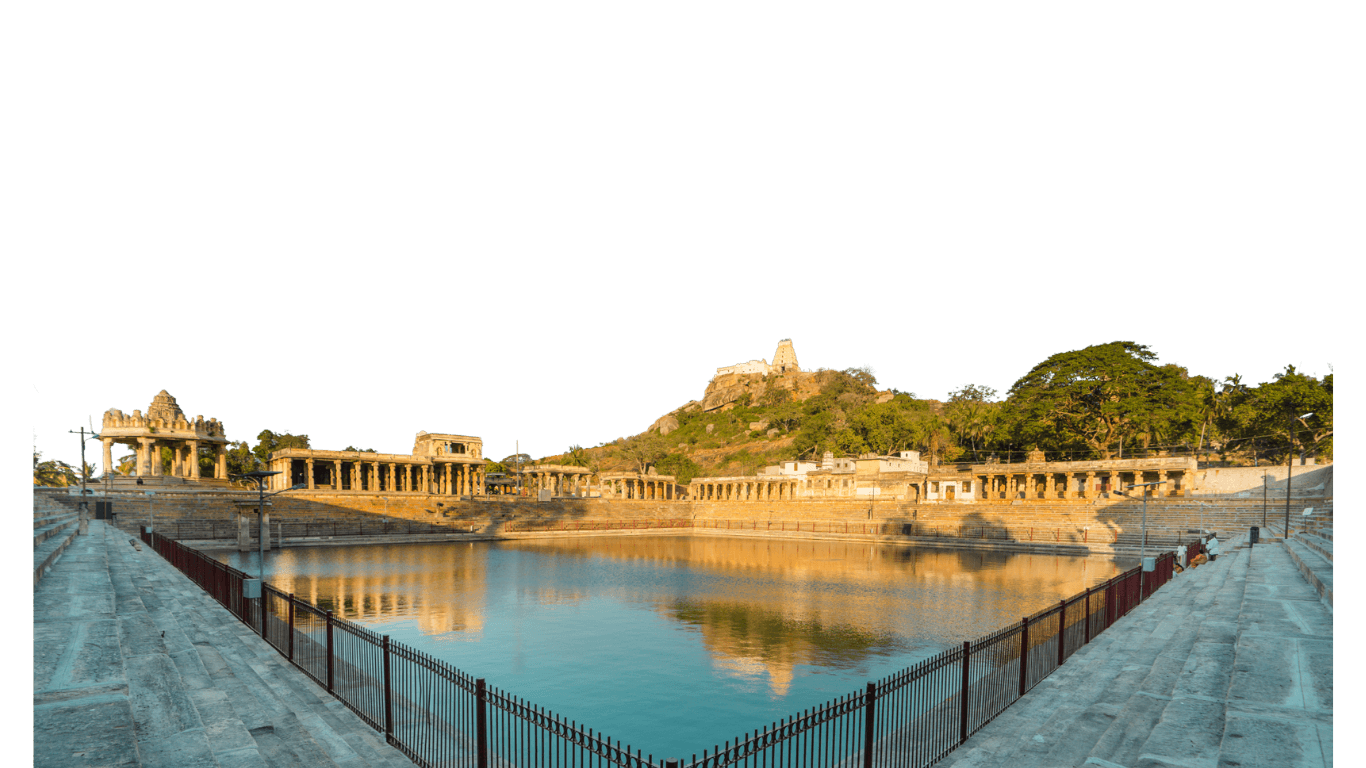
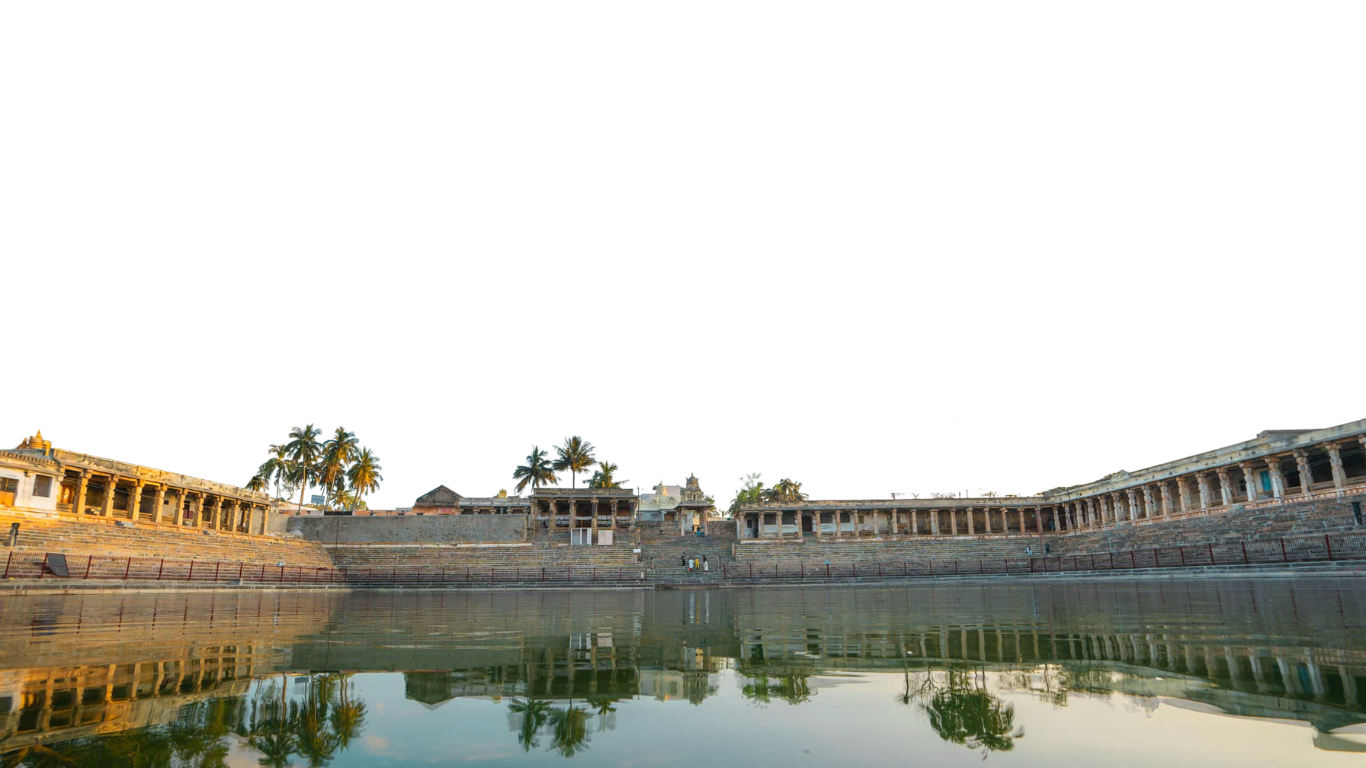
metro added and other updates

diff --git a/src/data/projectsData.js b/src/data/projectsData.js
@@ -455,6 +455,173 @@ export const projectsData = {
       "/temple/Melukote%20Kalayani/MELKOTE%20KALYANI3.webp",
       "/temple/Melukote%20Kalayani/MELKOTE%20KALYANI30.webp"
     ]
+  },
+
+  // ================= METRO =================
+  "m1": {
+    id: "m1",
+    title: "BTM Layout Station",
+    location: "BENGALURU",
+    number: "15",
+    heroBg: "/metro/BTM/BTM.webp",
+    images: {
+      mobile1: "/metro/BTM/BTM (2).webp",
+      mobile2: "/metro/BTM/SWA01466.webp",
+      desktopLeft: "/metro/BTM/BTM (2).webp",
+      desktopRight: "/metro/BTM/SWA01466.webp"
+    },
+    introText1: "Located at BTM Layout, this project demonstrates our capacity to deliver complex urban transportation infrastructure.",
+    introText2: "Our scope encompassed comprehensive civil works, resulting in a state-of-the-art metro station facilitating seamless connectivity.",
+    droneSection: {
+      img1: "/metro/BTM/SWA01477.webp",
+      img2: "/metro/BTM/SWA01483.webp",
+      cardTitle: "Metro Infrastructure",
+      cardDesc: "Vital node in Bengaluru's mass transit network",
+      stats: [
+        { title: "Urban Transit", desc: "Key metro station serving the BTM Layout area" },
+        { title: "Complete Civil Works", desc: "Full structural and finishing works delivered" }
+      ]
+    },
+    galleryImages: [
+      "/metro/BTM/BTM.webp",
+      "/metro/BTM/BTM (2).webp",
+      "/metro/BTM/SWA01466.webp",
+      "/metro/BTM/SWA01477.webp",
+      "/metro/BTM/SWA01485.webp",
+      "/metro/BTM/SWA01488.webp"
+    ]
+  },
+  "m2": {
+    id: "m2",
+    title: "Jayadeva Station",
+    location: "BENGALURU",
+    number: "16",
+    heroBg: "/metro/Jayadeva/JDS.webp",
+    images: {
+      mobile1: "/metro/Jayadeva/SWA01331.webp",
+      mobile2: "/metro/Jayadeva/SWA01339.webp",
+      desktopLeft: "/metro/Jayadeva/SWA01331.webp",
+      desktopRight: "/metro/Jayadeva/SWA01339.webp"
+    },
+    introText1: "An interchange station situated at Jayadeva, this project forms a crucial part of Bengaluru's expanding metro network.",
+    introText2: "Executed with precision, we managed the demanding construction requirements of a multi-level transit hub in a high-density area.",
+    droneSection: {
+      img1: "/metro/Jayadeva/SWA01341.webp",
+      img2: "/metro/Jayadeva/SWA01366.webp",
+      cardTitle: "Interchange Hub",
+      cardDesc: "Major interchange station connecting multiple metro lines",
+      stats: [
+        { title: "Multi-level Structure", desc: "Complex engineering for intersecting transit routes" },
+        { title: "Quality Execution", desc: "Built with exacting safety and durability standards" }
+      ]
+    },
+    galleryImages: [
+      "/metro/Jayadeva/JDS.webp",
+      "/metro/Jayadeva/SWA01331.webp",
+      "/metro/Jayadeva/SWA01367.webp",
+      "/metro/Jayadeva/SWA01377.webp",
+      "/metro/Jayadeva/SWA01441.webp",
+      "/metro/Jayadeva/SWA01339.webp"
+    ]
+  },
+  "m3": {
+    id: "m3",
+    title: "Ragigudda Station",
+    location: "BENGALURU",
+    number: "17",
+    heroBg: "/metro/Ragigudda/RGS.webp",
+    images: {
+      mobile1: "/metro/Ragigudda/RGS (4).webp",
+      mobile2: "/metro/Ragigudda/RGS (7).webp",
+      desktopLeft: "/metro/Ragigudda/RGS (4).webp",
+      desktopRight: "/metro/Ragigudda/RGS (7).webp"
+    },
+    introText1: "Located near the historic Ragigudda temple, this station provides essential connectivity while respecting the local environment.",
+    introText2: "Our team executed the project with minimal disruption to the surrounding community, delivering a highly functional transit facility.",
+    droneSection: {
+      img1: "/metro/Ragigudda/RGS (8).webp",
+      img2: "/metro/Ragigudda/SWA01227.webp",
+      cardTitle: "Community Transit",
+      cardDesc: "A modern metro station serving a vibrant residential and cultural hub",
+      stats: [
+        { title: "Efficient Design", desc: "Optimized passenger flow and accessibility" },
+        { title: "Status: Completed", desc: "Delivered to support the city's mobility needs" }
+      ]
+    },
+    galleryImages: [
+      "/metro/Ragigudda/RGS.webp",
+      "/metro/Ragigudda/RGS (4).webp",
+      "/metro/Ragigudda/SWA01254.webp",
+      "/metro/Ragigudda/SWA01265.webp",
+      "/metro/Ragigudda/SWA01269.webp",
+      "/metro/Ragigudda/SWA01288.webp"
+    ]
+  },
+  "m4": {
+    id: "m4",
+    title: "Rashtreeya Vidyalaya Road Station",
+    location: "BENGALURU",
+    number: "18",
+    heroBg: "/metro/Rashtreeya%20Vidyalaya%20Road/SWA01182.webp",
+    images: {
+      mobile1: "/metro/Rashtreeya%20Vidyalaya%20Road/SWA01183.webp",
+      mobile2: "/metro/Rashtreeya%20Vidyalaya%20Road/SWA01186.webp",
+      desktopLeft: "/metro/Rashtreeya%20Vidyalaya%20Road/SWA01183.webp",
+      desktopRight: "/metro/Rashtreeya%20Vidyalaya%20Road/SWA01186.webp"
+    },
+    introText1: "Serving the RV Road area, this project highlights our capability in executing critical infrastructure within established urban corridors.",
+    introText2: "We delivered robust civil engineering solutions, ensuring the station integrates smoothly with existing public spaces and roadways.",
+    droneSection: {
+      img1: "/metro/Rashtreeya%20Vidyalaya%20Road/SWA01212.webp",
+      img2: "/metro/Rashtreeya%20Vidyalaya%20Road/SWA01217.webp",
+      cardTitle: "Urban Integration",
+      cardDesc: "Seamlessly connecting commuters in a key educational and residential district",
+      stats: [
+        { title: "Strategic Location", desc: "Essential node for daily city commuters" },
+        { title: "Complete Civil Works", desc: "End-to-end execution of station infrastructure" }
+      ]
+    },
+    galleryImages: [
+      "/metro/Rashtreeya%20Vidyalaya%20Road/SWA01182.webp",
+      "/metro/Rashtreeya%20Vidyalaya%20Road/SWA01183.webp",
+      "/metro/Rashtreeya%20Vidyalaya%20Road/SWA01186.webp",
+      "/metro/Rashtreeya%20Vidyalaya%20Road/SWA01212.webp",
+      "/metro/Rashtreeya%20Vidyalaya%20Road/SWA01217.webp",
+      "/metro/Rashtreeya%20Vidyalaya%20Road/RVR%20STATION%20(4).webp"
+    ]
+  },
+  "m5": {
+    id: "m5",
+    title: "Silk Board Station",
+    location: "BENGALURU",
+    number: "19",
+    heroBg: "/metro/Silk%20board/SWA01503.webp",
+    images: {
+      mobile1: "/metro/Silk%20board/SWA01510.webp",
+      mobile2: "/metro/Silk%20board/SWA01513.webp",
+      desktopLeft: "/metro/Silk%20board/SWA01510.webp",
+      desktopRight: "/metro/Silk%20board/SWA01513.webp"
+    },
+    introText1: "Located at one of Bengaluru's busiest intersections, the Silk Board metro station is a landmark infrastructure achievement.",
+    introText2: "Our team overcame significant logistical challenges to construct a facility that will greatly alleviate traffic congestion in the area.",
+    droneSection: {
+      img1: "/metro/Silk%20board/SWA01527.webp",
+      img2: "/metro/Silk%20board/SWA01538.webp",
+      cardTitle: "Major Transit Hub",
+      cardDesc: "Pivotal station designed to handle high passenger volumes",
+      stats: [
+        { title: "High Capacity", desc: "Engineered for maximum throughput and safety" },
+        { title: "Complex Execution", desc: "Built amidst one of the city's densest traffic zones" }
+      ]
+    },
+    galleryImages: [
+      "/metro/Silk%20board/SWA01503.webp",
+      "/metro/Silk%20board/SWA01510.webp",
+      "/metro/Silk%20board/SWA01542.webp",
+      "/metro/Silk%20board/SWA01551.webp",
+      "/metro/Silk%20board/SWA01513.webp",
+      "/metro/Silk%20board/SWA01538.webp"
+    ]
   }
 };
 

diff --git a/src/pages/AboutUs.jsx b/src/pages/AboutUs.jsx
@@ -94,7 +94,7 @@ export default function AboutUs() {
                 M Ramesh Reddy
               </h2>
               <p className="text-gray-300 text-base md:text-lg leading-relaxed font-medium">
-                M Ramesh Reddy’s journey is defined by hard work, determination, and an unwavering commitment to excellence. Born in Nangali, Karnataka, into a humble family, he began his career as a civil contractor and steadily built M R Constructions into a trusted leader in the industry. A pivotal milestone in his career came in 2012 when he became a vendor for Infosys, leading to an inspiring meeting with the renowned Sudha Murty. Today, his visionary leadership continues to drive M R Constructions toward new heights of engineering and operational success.
+                M Ramesh Reddy’s journey is defined by hard work, determination, and an unwavering commitment to excellence. Born in Nangali, Karnataka, into a humble family, he began his career as a civil contractor and steadily built M R Constructions into a trusted leader in the industry. A pivotal milestone in his career came in 2012 when he became a vendor for Infosys, leading to an inspiring meeting with the renowned Smt. Sudha Murty. Today, his visionary leadership continues to drive M R Constructions toward new heights of engineering and operational success.
               </p>
             </div>
             
@@ -201,10 +201,10 @@ export default function AboutUs() {
       </div>
 
       {/* Why MRC Section - Layered Parallax Layout */}
-      <div ref={sectionRef} className="relative w-[95vw] md:w-[90vw] max-w-[1800px] mx-auto rounded-[1.5rem] md:rounded-[3rem] overflow-hidden min-h-[1050px] sm:min-h-[900px] lg:min-h-[1000px] mb-24 shadow-2xl flex flex-col justify-start bg-[#e6e4e0] z-30 pb-32 lg:pb-0">
+      <div ref={sectionRef} className="relative w-[95vw] md:w-[90vw] max-w-[1800px] mx-auto rounded-[1.5rem] md:rounded-[3rem] overflow-hidden min-h-[920px] sm:min-h-[800px] lg:min-h-[800px] mb-24 shadow-2xl flex flex-col justify-start bg-[#e6e4e0] z-30 pb-32 lg:pb-0">
 
           {/* Layer 1: Background Image */}
-          <img src="/temple_bg.webp" alt="Archaeological Site Background" className="absolute inset-0 w-full h-full object-cover object-[50%_100%] z-0" />
+          <img src="/temple_bg.png" alt="Archaeological Site Background" className="absolute inset-0 w-full h-full object-cover object-[50%_100%] z-0" />
 
           {/* Layer 2: Content (Title and Cards) */}
           <div className="relative z-10 w-full flex flex-col lg:flex-row items-start justify-between px-4 sm:px-8 md:px-16 pt-8 md:pt-12 lg:pt-16 gap-6 md:gap-8">
@@ -248,7 +248,7 @@ export default function AboutUs() {
           </div>
 
           {/* Layer 3: Foreground Image */}
-          <img src="/temple_fg 2.png" alt="Archaeological Site Foreground" className="absolute inset-0 w-full h-full object-cover object-[50%_100%] pointer-events-none z-20" />
+          <img src="/temple_fg.png" alt="Archaeological Site Foreground" className="absolute inset-0 w-full h-full object-cover object-[50%_100%] pointer-events-none z-20" />
         </div>
 
         {/* Core Values & Ethics Section (Full Width) */}

diff --git a/src/pages/Portfolio.jsx b/src/pages/Portfolio.jsx
@@ -328,7 +328,6 @@ const portfolioCategories = [
     projects: [
       { id: "c1", title: "Infosys New Campus", subtitle: "Hubli", img: "/commercial/infosys/INFOSYS HUBLI29.webp" },
       { id: "c2", title: "Lake development and construction", subtitle: "Hebbal Mysore", img: "/commercial/lake/infosys STP drone 1_10.webp" },
-      { id: "c3", title: "Sira Solar Plant", subtitle: "Sira", img: "/sira_solar.webp" },
       { id: "c4", title: "Paying Guest Buildings", subtitle: "Electronic city", img: "/commercial/pg/PG13.webp" },
     ]
   },
@@ -336,7 +335,7 @@ const portfolioCategories = [
     category: "Education Institution",
     projects: [
       { id: "e1", title: "CBSE English Medium High School", subtitle: "Shivanahalli", img: "/Education%20Institution/CBSE%20ENGLISH%20MEDIUM%20HIGH%20SCHOOL-%20Shivanahalli/MRC shivanahalli DRONE _21.webp" },
-      { id: "e2", title: "Hubli Education Institution", subtitle: "Hubli", img: "/Education%20Institution/Hubli%20School/HUBLI SCHOOL1.webp" },
+      { id: "e2", title: "Smt. Vimalakulkarni Memorial School", subtitle: "Hubli", img: "/Education%20Institution/Hubli%20School/HUBLI SCHOOL1.webp" },
       { id: "e3", title: "Indian Institute of Information Technology", subtitle: "Dharwad", img: "/Education%20Institution/Indian%20Institute%20of%20Information%20Technology%20(IIIT),%20Dharwad/IIIT7.webp" },
     ]
   },
@@ -357,8 +356,20 @@ const portfolioCategories = [
     ]
   },
   {
-    category: "Metro and Roads",
-    projects: []
+    category: "Roads & Infrastructure",
+    projects: [
+      { id: "c3", title: "Sira Solar Plant", subtitle: "Sira", img: "/sira_solar.webp" }
+    ]
+  },
+  {
+    category: "Metro",
+    projects: [
+      { id: "m1", title: "BTM Layout Station", subtitle: "Bengaluru", img: "/metro/BTM/BTM.webp" },
+      { id: "m2", title: "Jayadeva Station", subtitle: "Bengaluru", img: "/metro/Jayadeva/JDS.webp" },
+      { id: "m3", title: "Ragigudda Station", subtitle: "Bengaluru", img: "/metro/Ragigudda/RGS.webp" },
+      { id: "m4", title: "Rashtreeya Vidyalaya Road Station", subtitle: "Bengaluru", img: "/metro/Rashtreeya%20Vidyalaya%20Road/SWA01182.webp" },
+      { id: "m5", title: "Silk Board Station", subtitle: "Bengaluru", img: "/metro/Silk%20board/SWA01503.webp" }
+    ]
   }
 ];
 
@@ -495,7 +506,7 @@ export default function Portfolio() {
             {/* Left side: Highlight text */}
             <div className="lg:col-span-5">
               <h2 className="text-3xl md:text-4xl font-light text-[#4b4b4b] leading-[1.2] tracking-tight">
-                Building trust over <br className="hidden lg:block" /> <span className="font-semibold text-[#2c52a1]">2 Decades</span> of excellence.
+                Building trust over <br className="hidden lg:block" /> <span className="font-semibold text-[#2c52a1]">2+ Decades</span> of excellence.
               </h2>
             </div>
 

diff --git a/src/components/ServicesSection.jsx b/src/components/ServicesSection.jsx
@@ -11,10 +11,11 @@ export default function ServicesSection() {
 
   const serviceItems = [
     { id: 1, title: 'Commercial', projects: 'Delivering modern office spaces, retail environments, and state-of-the-art commercial complexes.', image: '/sira_solar.webp', link: '/portfolio#commercial' },
-    { id: 2, title: 'Education Institute', projects: 'Building inspiring learning environments, from educational institutions to advanced research campuses.', image: '/hubli_school_vert.webp', link: '/portfolio#education-institution' },
+    { id: 2, title: 'Educational Institution', projects: 'Building inspiring learning environments, from educational institutions to advanced research campuses.', image: '/hubli_school_vert.webp', link: '/portfolio#education-institution' },
     { id: 3, title: 'Hospitals', projects: 'Constructing specialized healthcare facilities, clinics, and multi-specialty hospitals with precision.', image: '/hospital.webp', link: '/portfolio#hospitals' },
     { id: 4, title: 'Archaeological Developments', projects: 'Preserving historical heritage and developing archaeological sites with traditional architectural integrity.', image: '/melukote_temple.webp', link: '/portfolio#archaeological-developments' },
-    { id: 5, title: 'Metro and Roads', projects: 'Developing critical transportation infrastructure including metro lines and road networks for seamless connectivity.', image: '/building.webp', link: '/portfolio#metro-and-roads' },
+    { id: 5, title: 'Roads & Infrastructure', projects: 'Developing critical transportation infrastructure including road networks and highways for seamless connectivity.', image: '/building.webp', link: '/portfolio#roads-&-infrastructure' },
+    { id: 6, title: 'Metro', projects: 'Building major urban transit systems, interchange stations, and metro networks to power city mobility.', image: '/metro/Jayadeva/JDS.webp', link: '/portfolio#metro' },
   ];
 
   const handleMouseDown = (e) => {

diff --git a/src/components/WhyChooseUsSection.jsx b/src/components/WhyChooseUsSection.jsx
@@ -67,7 +67,7 @@ export default function WhyChooseUsSection() {
         <div ref={headerRef} className="text-center mb-10 md:mb-14 flex flex-col items-center">
           <div className="w-[2px] h-10 md:h-14 bg-[#2c52a1] mb-8"></div>
           <p className="text-lg md:text-xl text-[#555555] leading-relaxed max-w-3xl mx-auto">
-            With over 2 Decades of experience and 125+ projects delivered, M R Constructions has established itself as a trusted name in construction and engineering.
+            With over 2+ Decades of experience and 125+ projects delivered, M R Constructions has established itself as a trusted name in construction and engineering.
           </p>
         </div>
 

diff --git a/src/App.jsx b/src/App.jsx
@@ -45,8 +45,9 @@ const navItems = [
       { label: 'Hospitals', href: '/portfolio#hospitals' },
       { label: 'Commercial', href: '/portfolio#commercial' },
       { label: 'Archaeological Developments', href: '/portfolio#archaeological-developments' },
-      { label: 'Education', href: '/portfolio#education-institution' },
-      { label: 'Metro and Roads', href: '/portfolio#metro-and-roads' }
+      { label: 'Educational Institution', href: '/portfolio#education-institution' },
+      { label: 'Roads & Infrastructure', href: '/portfolio#roads-&-infrastructure' },
+      { label: 'Metro', href: '/portfolio#metro' }
     ]
   }
 ];
